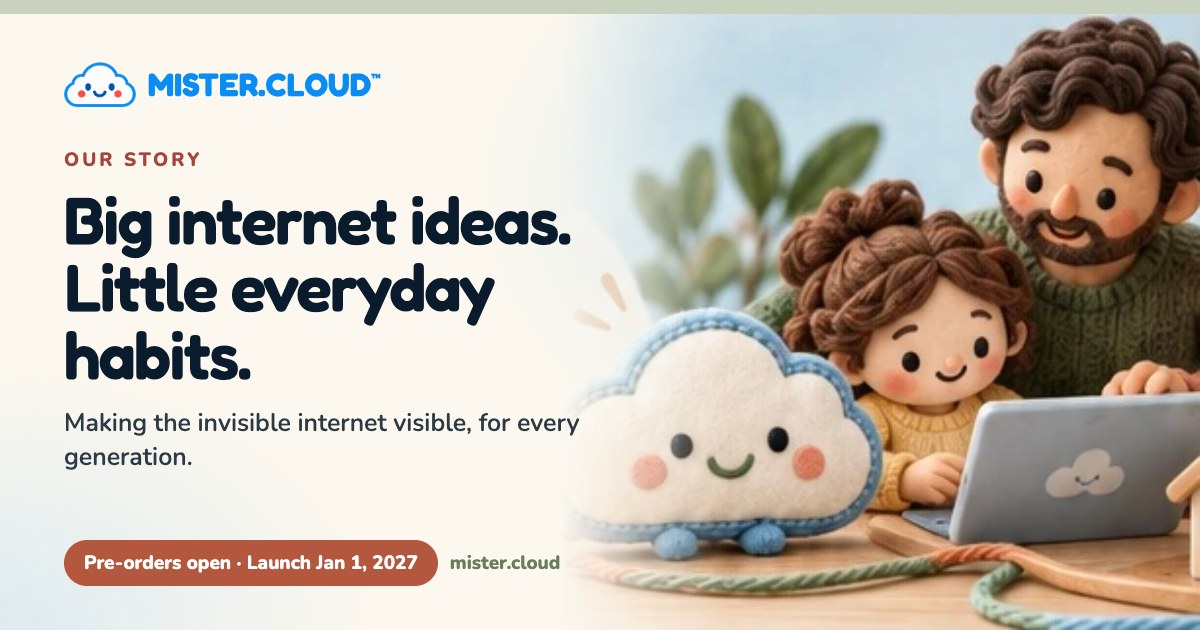
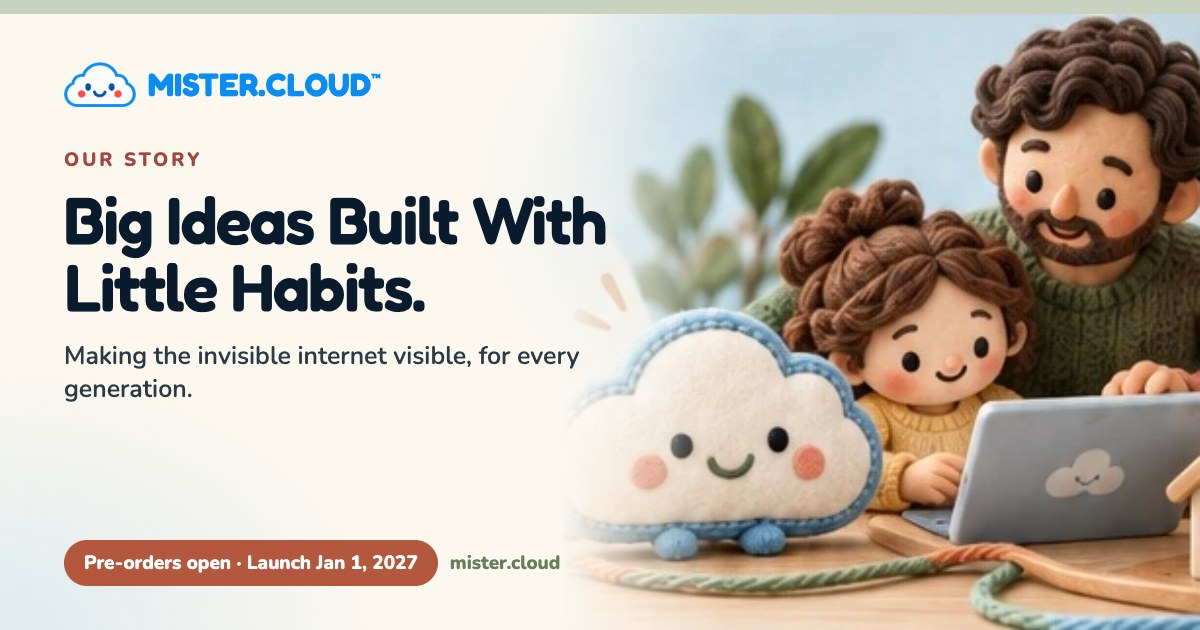
New hero headlines for About, Play, Learn
- About: "Big Ideas Built With Little Habits."
- Play: "Little Hands. Big Senses."
- Learn: "Let's Map The Web" with "Together" as a warm clay subtitle line
- Matching page titles, search/share descriptions and share cards (?v=2)

diff --git a/learn.html b/learn.html
@@ -3,16 +3,16 @@
 <head>
   <meta charset="UTF-8">
   <meta name="viewport" content="width=device-width, initial-scale=1.0">
-  <title>Learn · Your home has a little data story · Mister Cloud</title>
+  <title>Learn · Let’s Map The Web Together · Mister Cloud</title>
   <meta name="description" content="A family field guide: open three tiny data receipts, keep the story honest, and save the free “Internet Has a Body” slideshow to share or print.">
   <link rel="canonical" href="https://mister.cloud/learn">
-  <meta property="og:title" content="Your home has a little data story · Mister Cloud">
+  <meta property="og:title" content="Let’s Map The Web Together · Mister Cloud">
   <meta property="og:description" content="A family field guide to the connected home, plus a free nine-slide tour of the internet’s body to save, share and print.">
   <meta property="og:url" content="https://mister.cloud/learn">
-  <meta property="og:image" content="https://mister.cloud/assets/og/learn.jpg">
+  <meta property="og:image" content="https://mister.cloud/assets/og/learn.jpg?v=2">
   <meta property="og:image:width" content="1200">
   <meta property="og:image:height" content="630">
-  <meta property="og:image:alt" content="Mister Cloud Learn: your home has a little data story. A felt living room with a TV, speaker and fridge.">
+  <meta property="og:image:alt" content="Mister Cloud Learn: let’s map the web together. A felt living room with a TV, speaker and fridge.">
   <meta name="twitter:image" content="https://mister.cloud/assets/og/learn.jpg">
   <!-- @head -->
   <meta name="theme-color" content="#C9D2BE">
@@ -68,7 +68,7 @@
         <div class="hero-copy">
           <nav class="breadcrumb" aria-label="Breadcrumb"><ol><li><a href="/">Home</a></li><li aria-current="page">Learn</li></ol></nav>
           <span class="eyebrow">A family field guide</span>
-          <h1 id="hero-title" class="display">Your home has a little data story.</h1>
+          <h1 id="hero-title" class="display">Let’s Map The Web <span class="display-warm">Together</span></h1>
           <p class="lede">When a screen plays, a door opens, or a speaker hears its wake word, what might a device remember? Follow one moment and learn what to ask next.</p>
           <div class="hero-actions">
             <a class="btn btn-primary btn-lg" href="#receipts">Explore a data receipt</a>

diff --git a/play.html b/play.html
@@ -4,15 +4,15 @@
   <meta charset="UTF-8">
   <meta name="viewport" content="width=device-width, initial-scale=1.0">
   <title>Play · Mister Cloud</title>
-  <meta name="description" content="Little hands. Big discoveries. Trace a message, spot a sensor and practice the pause with simple activities for home and classroom.">
+  <meta name="description" content="Little Hands. Big Senses. Trace a message, spot a sensor and practice the pause with simple activities for home and classroom.">
   <link rel="canonical" href="https://mister.cloud/play">
   <meta property="og:title" content="Play · Mister Cloud">
-  <meta property="og:description" content="Little hands. Big discoveries. Trace a message. Spot a sensor. Practice the pause.">
+  <meta property="og:description" content="Little Hands. Big Senses. Trace a message. Spot a sensor. Practice the pause.">
   <meta property="og:url" content="https://mister.cloud/play">
-  <meta property="og:image" content="https://mister.cloud/assets/og/play.jpg">
+  <meta property="og:image" content="https://mister.cloud/assets/og/play.jpg?v=2">
   <meta property="og:image:width" content="1200">
   <meta property="og:image:height" content="630">
-  <meta property="og:image:alt" content="Mister Cloud Play: little hands, big discoveries. A felt play-set of a house, router and data center.">
+  <meta property="og:image:alt" content="Mister Cloud Play: little hands, big senses. A felt play-set of a house, router and data center.">
   <meta name="twitter:image" content="https://mister.cloud/assets/og/play.jpg">
   <!-- @head -->
   <meta name="theme-color" content="#C9D2BE">
@@ -67,7 +67,7 @@
       <div class="container hero-inner">
         <div class="hero-copy">
           <span class="eyebrow">Learn through play</span>
-          <h1 id="hero-title" class="display">Little hands. Big discoveries.</h1>
+          <h1 id="hero-title" class="display">Little Hands. Big Senses.</h1>
           <p class="lede">Trace a message. Spot a sensor. Practice the pause.</p>
           <div class="hero-actions">
             <a class="btn btn-primary btn-lg" href="#activities">Explore activities</a>

diff --git a/about.html b/about.html
@@ -4,15 +4,15 @@
   <meta charset="UTF-8">
   <meta name="viewport" content="width=device-width, initial-scale=1.0">
   <title>Our Story · Mister Cloud</title>
-  <meta name="description" content="Big internet ideas. Little everyday habits. Making the invisible internet visible, for every generation.">
+  <meta name="description" content="Big Ideas Built With Little Habits. Making the invisible internet visible, for every generation.">
   <link rel="canonical" href="https://mister.cloud/about">
   <meta property="og:title" content="Our Story · Mister Cloud">
   <meta property="og:description" content="Big internet ideas. Little everyday habits. Making the invisible internet visible, for every generation.">
   <meta property="og:url" content="https://mister.cloud/about">
-  <meta property="og:image" content="https://mister.cloud/assets/og/about.jpg">
+  <meta property="og:image" content="https://mister.cloud/assets/og/about.jpg?v=2">
   <meta property="og:image:width" content="1200">
   <meta property="og:image:height" content="630">
-  <meta property="og:image:alt" content="Mister Cloud: big internet ideas, little everyday habits. A felt family around a laptop with Mister Cloud.">
+  <meta property="og:image:alt" content="Mister Cloud: big ideas built with little habits. A felt family around a laptop with Mister Cloud.">
   <meta name="twitter:image" content="https://mister.cloud/assets/og/about.jpg">
   <!-- @head -->
   <meta name="theme-color" content="#C9D2BE">
@@ -68,7 +68,7 @@
         <div class="hero-copy">
           <nav class="breadcrumb" aria-label="Breadcrumb"><ol><li><a href="/">Home</a></li><li aria-current="page">About</li></ol></nav>
           <span class="eyebrow">Our story</span>
-          <h1 id="hero-title" class="display">Big internet ideas. Little everyday habits.</h1>
+          <h1 id="hero-title" class="display">Big Ideas Built With Little Habits.</h1>
           <p class="lede">Making the invisible internet visible, for every generation.</p>
           <div class="hero-actions"><a class="btn btn-primary btn-lg" href="#approach">Meet our approach&nbsp;→</a></div>
         </div>

diff --git a/assets/css/site.css b/assets/css/site.css
@@ -107,6 +107,7 @@ p { margin: 0; }
   font-weight: 600;
   letter-spacing: -0.025em;
 }
+.display-warm { display: block; color: var(--clay); font-size: .7em; margin-top: .06em; letter-spacing: -0.015em; }
 .h2 { font-size: clamp(1.8rem, 3.2vw, 2.5rem); line-height: 1.1; font-weight: 600; letter-spacing: -0.02em; }
 .h3 { font-size: 1.35rem; line-height: 1.2; font-weight: 600; }
 .lede { font-size: clamp(1.08rem, 1.6vw, 1.3rem); line-height: 1.45; color: var(--text); max-width: 34ch; }
